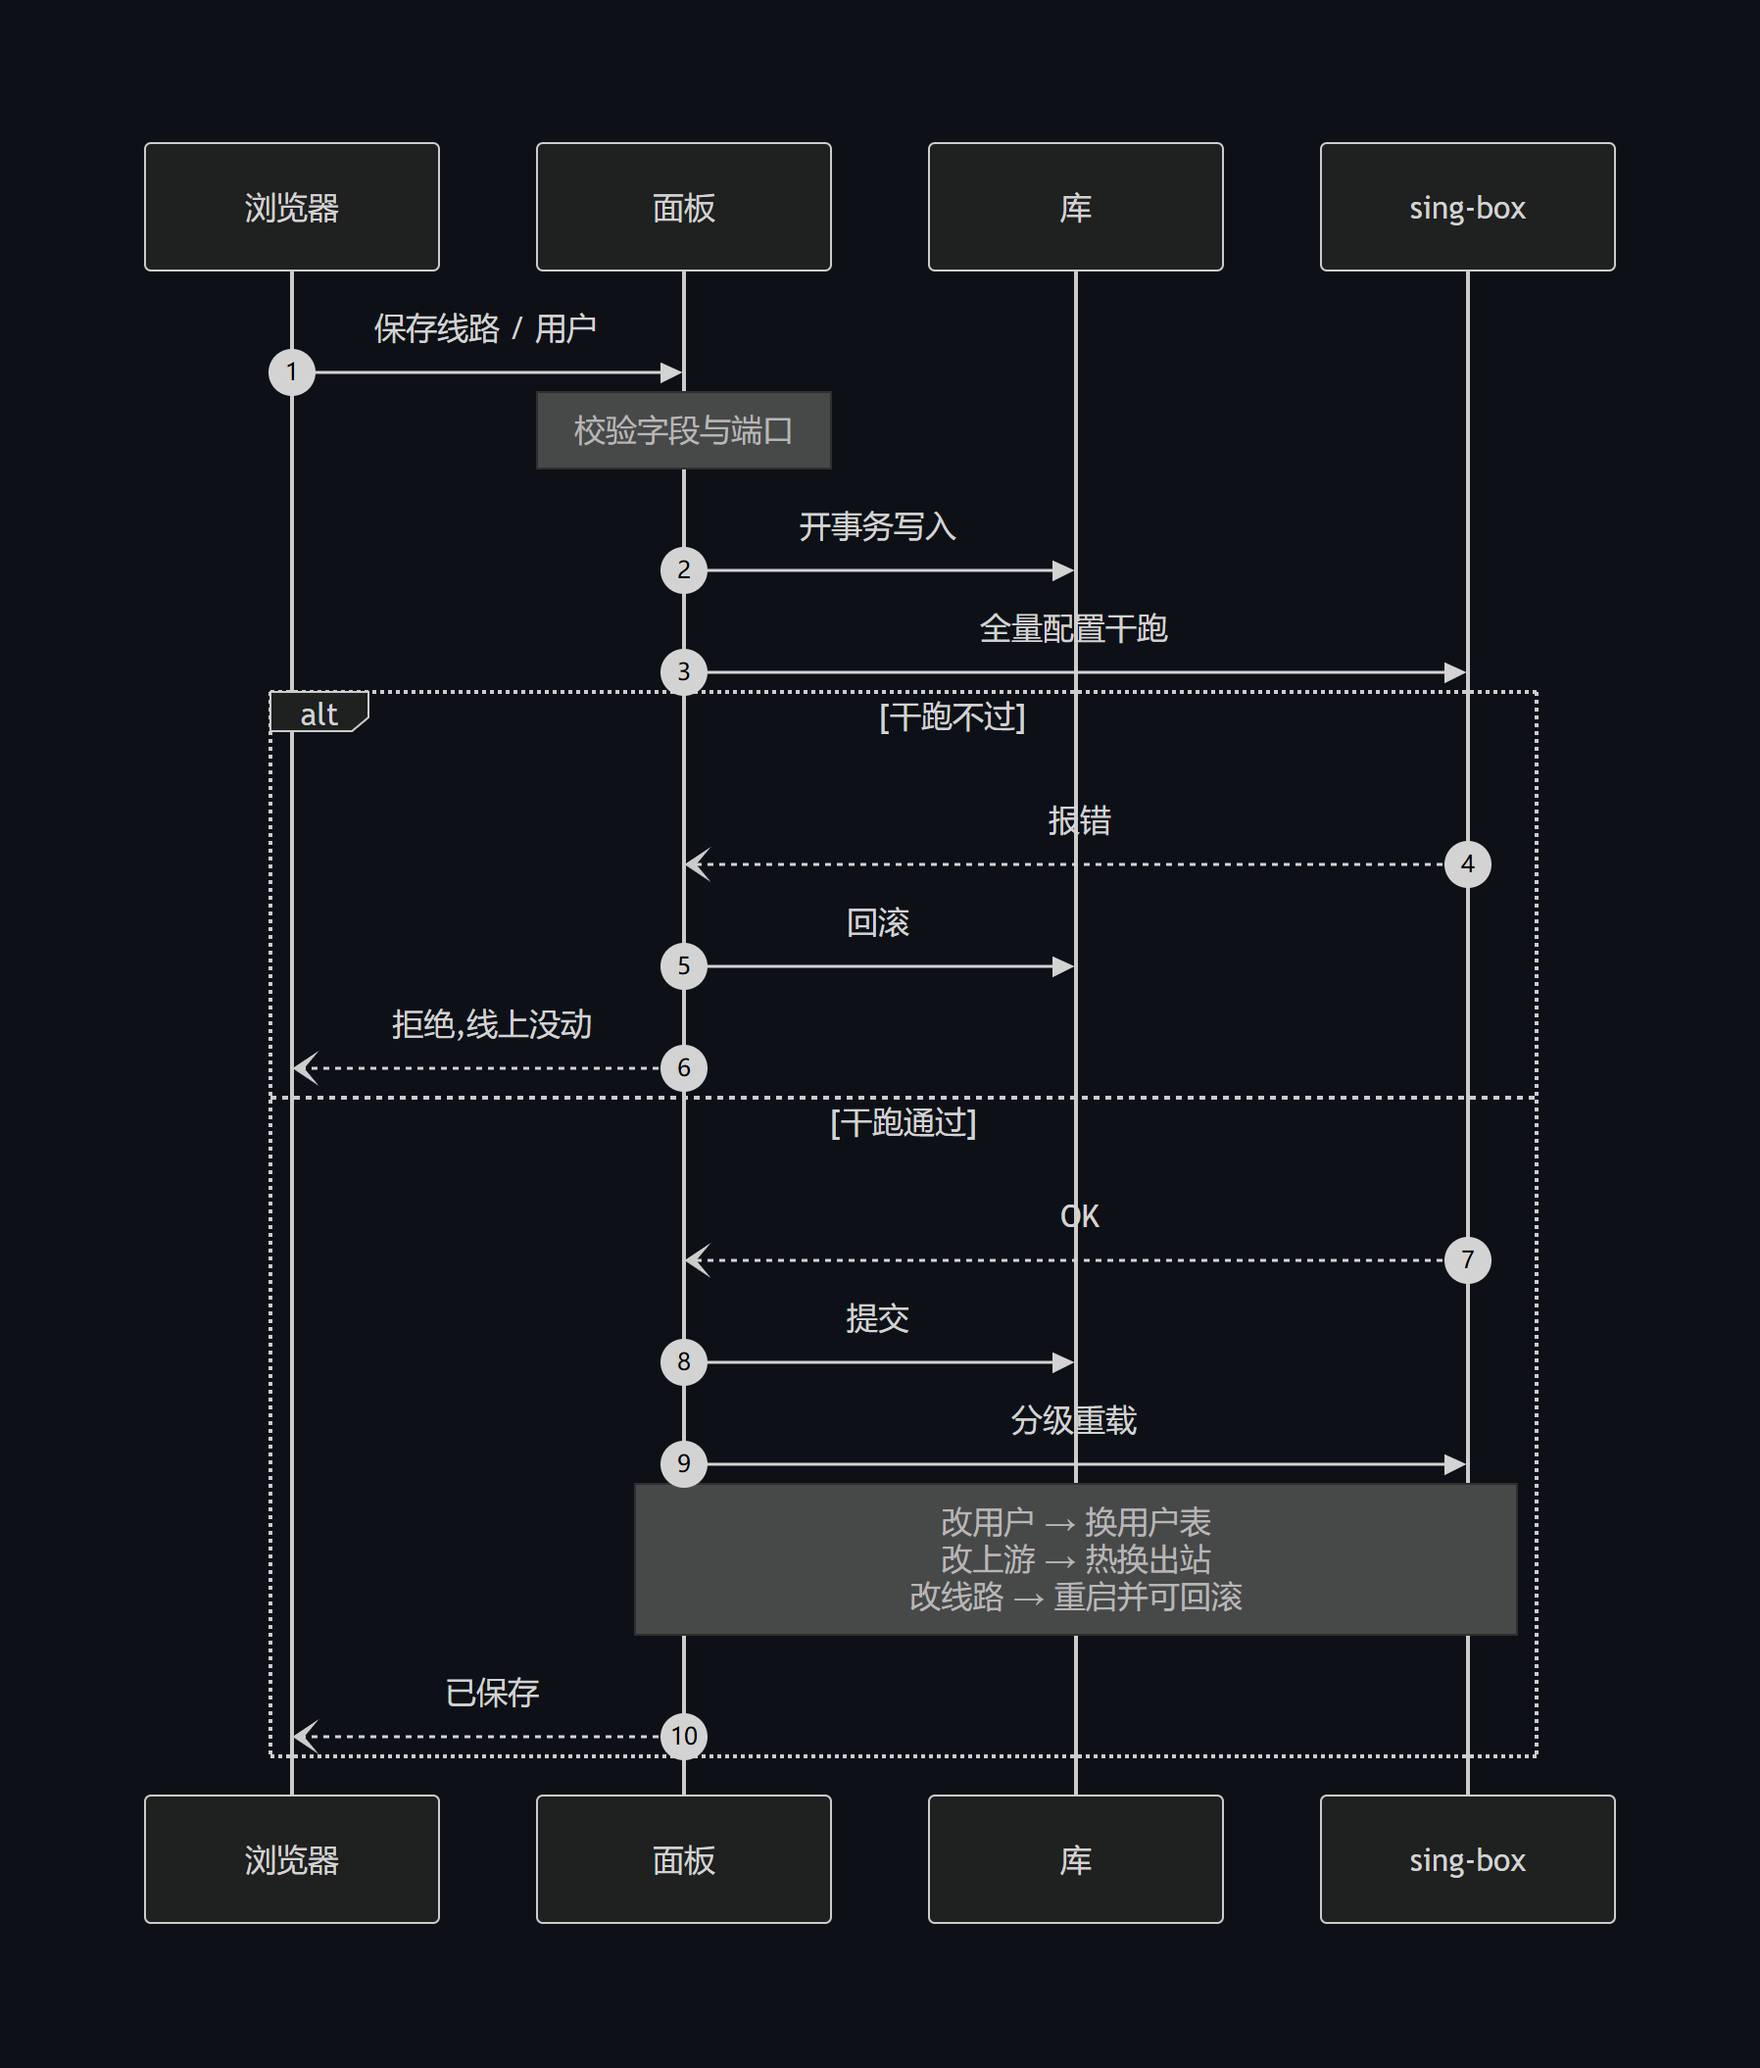
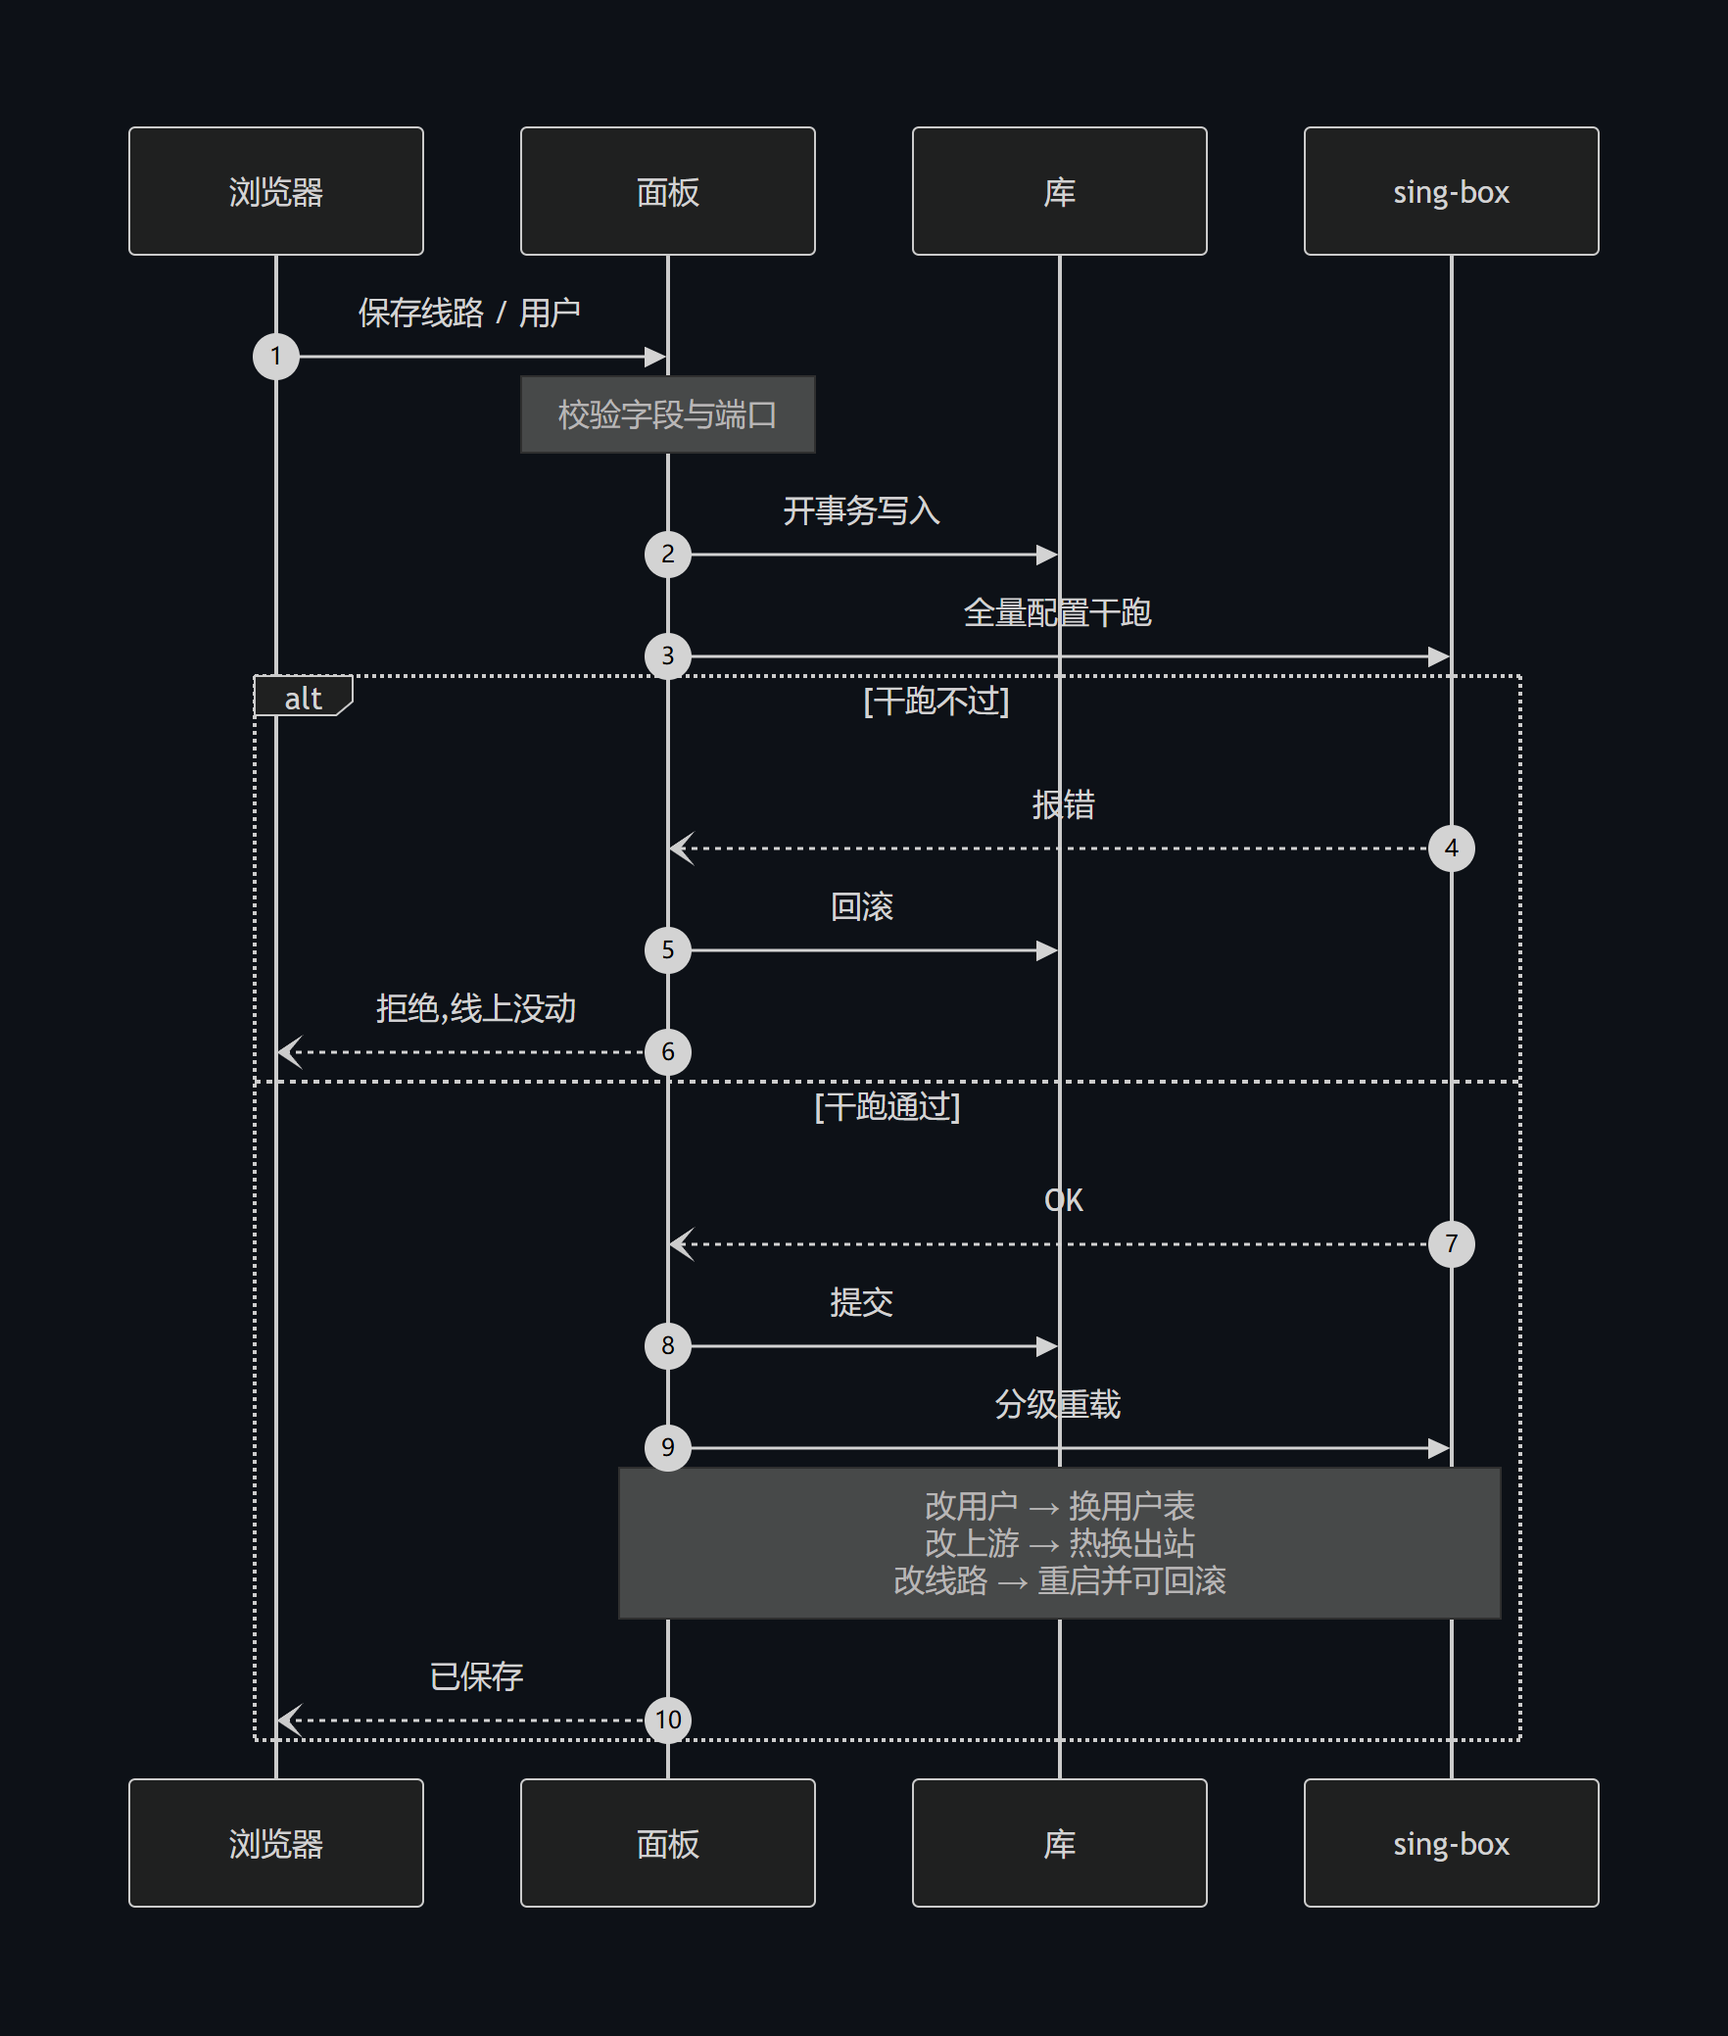
README 架构图:流程图四周留白收紧(手机上缩小显示时字更大)

diff --git a/README.en.md b/README.en.md
@@ -80,7 +80,7 @@ One binary runs four things: the **panel** (admin UI and API), the **subscriptio
 
 <p align="center"><picture>
   <source media="(prefers-color-scheme: dark)" srcset="docs/diagrams/architecture.en-dark.png">
-  <img src="docs/diagrams/architecture.en-light.png" width="1062" alt="What runs on one m-ui server: admins (:2053 /app/) and resellers (:2054 /dl/) reach the panel; user clients reach the line ports (data plane, real traffic) and the subscription service (:2056 /sub/); the panel hot-reloads or restarts the data plane, which hands traffic and online IPs to background jobs; panel, background jobs and subscriptions share m-ui.db; traffic leaves through the exit (direct, WARP or a relay, per line upstream and routing rules)">
+  <img src="docs/diagrams/architecture.en-light.png" width="974" alt="What runs on one m-ui server: admins (:2053 /app/) and resellers (:2054 /dl/) reach the panel; user clients reach the line ports (data plane, real traffic) and the subscription service (:2056 /sub/); the panel hot-reloads or restarts the data plane, which hands traffic and online IPs to background jobs; panel, background jobs and subscriptions share m-ui.db; traffic leaves through the exit (direct, WARP or a relay, per line upstream and routing rules)">
 </picture></p>
 
 > Ports and paths are all configurable; the values above are the defaults. The panel and the reseller panel are the same frontend — the session scope decides what you can see.
@@ -93,14 +93,14 @@ The panel never edits a running sing-box. It hands the whole new config to sing-
 
 <p align="center"><picture>
   <source media="(prefers-color-scheme: dark)" srcset="docs/diagrams/apply.en-dark.png">
-  <img src="docs/diagrams/apply.en-light.png" width="951" alt="What happens when you save: the panel validates, writes in a transaction and dry-runs the full config in sing-box; if it fails it rolls back and the live config is untouched; if it passes it commits and reloads by level (swap user table, hot-swap outbound, or restart with rollback)">
+  <img src="docs/diagrams/apply.en-light.png" width="935" alt="What happens when you save: the panel validates, writes in a transaction and dry-runs the full config in sing-box; if it fails it rolls back and the live config is untouched; if it passes it commits and reloads by level (swap user table, hot-swap outbound, or restart with rollback)">
 </picture></p>
 
 ### How a subscription request is answered
 
 <p align="center"><picture>
   <source media="(prefers-color-scheme: dark)" srcset="docs/diagrams/subscription.en-dark.png">
-  <img src="docs/diagrams/subscription.en-light.png" width="727" alt="How a subscription request is answered: the key identifies the user (username or random token; a share token is the same user with separate credentials; no match or disabled gives 404); for a matched user browsers get the landing page, proxy clients (and share tokens) get universal links, Clash YAML (?format=clash) or a sing-box config (?format=json)">
+  <img src="docs/diagrams/subscription.en-light.png" width="639" alt="How a subscription request is answered: the key identifies the user (username or random token; a share token is the same user with separate credentials; no match or disabled gives 404); for a matched user browsers get the landing page, proxy clients (and share tokens) get universal links, Clash YAML (?format=clash) or a sing-box config (?format=json)">
 </picture></p>
 
 > All three formats build nodes the same way: **the lines assigned to the user × the servers each line is deployed on**, plus external nodes and external subscriptions. Add a server and every subscription grows the matching nodes on its own. Assignment can go down to the entry: a line deployed on several servers is several entries, and users, plans and reseller grants can pick just one server's entry, so the subscription lists only what was given.
@@ -111,14 +111,14 @@ The master does the accounting and pushes config; a node only forwards. Nodes ne
 
 <p align="center"><picture>
   <source media="(prefers-color-scheme: dark)" srcset="docs/diagrams/sync.en-dark.png">
-  <img src="docs/diagrams/sync.en-light.png" width="1164" alt="Master and nodes: every 5 seconds the master pushes a snapshot (lines with routing rules, upstreams, users, credentials, limit states, revision) and a node with the same revision does nothing; the master pulls a report (traffic delta, online IPs, public IPv4 / IPv6, upstream health), rolls up usage, unions device IPs across servers and judges quota, and over-quota or expired users leave the next snapshot; an offline node keeps forwarding and catches up by cursor without double-counting">
+  <img src="docs/diagrams/sync.en-light.png" width="1148" alt="Master and nodes: every 5 seconds the master pushes a snapshot (lines with routing rules, upstreams, users, credentials, limit states, revision) and a node with the same revision does nothing; the master pulls a report (traffic delta, online IPs, public IPv4 / IPv6, upstream health), rolls up usage, unions device IPs across servers and judges quota, and over-quota or expired users leave the next snapshot; an offline node keeps forwarding and catches up by cursor without double-counting">
 </picture></p>
 
 ### Data model
 
 <p align="center"><picture>
   <source media="(prefers-color-scheme: dark)" srcset="docs/diagrams/data-model.en-dark.png">
-  <img src="docs/diagrams/data-model.en-light.png" width="967" alt="Data model: a reseller (quota, user limit, page) has users and plans and is granted lines; a user is assigned lines and has subscription fetch logs, plans apply on create, rules set schedule and burst limits; a line picks an upstream exit and is deployed on servers (address, public IP, address family, ratio)">
+  <img src="docs/diagrams/data-model.en-light.png" width="951" alt="Data model: a reseller (quota, user limit, page) has users and plans and is granted lines; a user is assigned lines and has subscription fetch logs, plans apply on create, rules set schedule and burst limits; a line picks an upstream exit and is deployed on servers (address, public IP, address family, ratio)">
 </picture></p>
 
 ### Background cadence

diff --git a/README.md b/README.md
@@ -80,7 +80,7 @@ m-ui 是一个自托管的代理面板:**一个二进制 + 一个数据库文件
 
 <p align="center"><picture>
   <source media="(prefers-color-scheme: dark)" srcset="docs/diagrams/architecture-dark.png">
-  <img src="docs/diagrams/architecture-light.png" width="1006" alt="m-ui 一台服务器里有什么:管理员(:2053 /app/)和代理(:2054 /dl/)连面板,用户客户端连线路端口(数据面,真流量)和订阅服务(:2056 /sub/);面板热更新或重启数据面,数据面把流量与在线 IP 交给后台任务;面板、后台任务、订阅服务共用 m-ui.db;流量经出口(直连 · WARP · 落地中转,按线路上游与分流规则)出去">
+  <img src="docs/diagrams/architecture-light.png" width="918" alt="m-ui 一台服务器里有什么:管理员(:2053 /app/)和代理(:2054 /dl/)连面板,用户客户端连线路端口(数据面,真流量)和订阅服务(:2056 /sub/);面板热更新或重启数据面,数据面把流量与在线 IP 交给后台任务;面板、后台任务、订阅服务共用 m-ui.db;流量经出口(直连 · WARP · 落地中转,按线路上游与分流规则)出去">
 </picture></p>
 
 > 端口和路径都能改;上面写的是默认值。面板与代理面板是同一套前端,靠会话里的作用域区分能看到什么。
@@ -93,14 +93,14 @@ m-ui 是一个自托管的代理面板:**一个二进制 + 一个数据库文件
 
 <p align="center"><picture>
   <source media="(prefers-color-scheme: dark)" srcset="docs/diagrams/apply-dark.png">
-  <img src="docs/diagrams/apply-light.png" width="898" alt="保存一次改动:面板校验后开事务写库,让 sing-box 干跑整份配置;干跑不过就回滚、运行中的不动;通过才提交,并按变化分级重载(换用户表 / 热换出站 / 重启且能回滚)">
+  <img src="docs/diagrams/apply-light.png" width="882" alt="保存一次改动:面板校验后开事务写库,让 sing-box 干跑整份配置;干跑不过就回滚、运行中的不动;通过才提交,并按变化分级重载(换用户表 / 热换出站 / 重启且能回滚)">
 </picture></p>
 
 ### 一次订阅请求怎么走
 
 <p align="center"><picture>
   <source media="(prefers-color-scheme: dark)" srcset="docs/diagrams/subscription-dark.png">
-  <img src="docs/diagrams/subscription-light.png" width="666" alt="一次订阅请求:按地址认人 —— 用户名或随机令牌命中用户,临时共享令牌是同一个用户的另一套凭据,对不上或已停用给 404;命中用户时浏览器看到落地页,代理客户端(以及共享令牌)按格式拿到通用链接、Clash YAML(?format=clash)或 sing-box 配置(?format=json)">
+  <img src="docs/diagrams/subscription-light.png" width="578" alt="一次订阅请求:按地址认人 —— 用户名或随机令牌命中用户,临时共享令牌是同一个用户的另一套凭据,对不上或已停用给 404;命中用户时浏览器看到落地页,代理客户端(以及共享令牌)按格式拿到通用链接、Clash YAML(?format=clash)或 sing-box 配置(?format=json)">
 </picture></p>
 
 > 三种格式里的节点都是同一套来源:**用户已分配的线路 × 该线路已部署的服务器**,再拼上外部节点与外部订阅。所以加一台服务器,所有人的订阅里自动多出对应节点。分配也可以细到入口:一条线路部署在几台服务器上就是几个入口,给用户 / 套餐 / 代理授权时可以只勾其中某台的,订阅里就只出拿到的那些。
@@ -111,14 +111,14 @@ m-ui 是一个自托管的代理面板:**一个二进制 + 一个数据库文件
 
 <p align="center"><picture>
   <source media="(prefers-color-scheme: dark)" srcset="docs/diagrams/sync-dark.png">
-  <img src="docs/diagrams/sync-light.png" width="936" alt="主服务器与副服务器:每 5 秒一轮,主机推快照(线路含分流规则、上游、用户、凭据、限速状态和修订号),修订号没变副机什么都不做;主机拉报告(流量增量、在线 IP、公网 IPv4 / IPv6、上游巡检结果),汇总用量、设备数跨机取并集、判定配额,超量和到期的用户下一轮快照里就没了;副机掉线期间照常转发,恢复后按游标补齐,不会重复计费">
+  <img src="docs/diagrams/sync-light.png" width="920" alt="主服务器与副服务器:每 5 秒一轮,主机推快照(线路含分流规则、上游、用户、凭据、限速状态和修订号),修订号没变副机什么都不做;主机拉报告(流量增量、在线 IP、公网 IPv4 / IPv6、上游巡检结果),汇总用量、设备数跨机取并集、判定配额,超量和到期的用户下一轮快照里就没了;副机掉线期间照常转发,恢复后按游标补齐,不会重复计费">
 </picture></p>
 
 ### 数据模型
 
 <p align="center"><picture>
   <source media="(prefers-color-scheme: dark)" srcset="docs/diagrams/data-model-dark.png">
-  <img src="docs/diagrams/data-model-light.png" width="872" alt="数据模型:代理(额度、可建用户数、页面)名下有用户与套餐,被授权线路;用户分到线路、有订阅拉取记录,套餐建号时套用,规则管时段与突发限速;线路选出口上游、部署到服务器(连接地址、公网 IP、地址族、倍率)">
+  <img src="docs/diagrams/data-model-light.png" width="856" alt="数据模型:代理(额度、可建用户数、页面)名下有用户与套餐,被授权线路;用户分到线路、有订阅拉取记录,套餐建号时套用,规则管时段与突发限速;线路选出口上游、部署到服务器(连接地址、公网 IP、地址族、倍率)">
 </picture></p>
 
 ### 后台节奏
